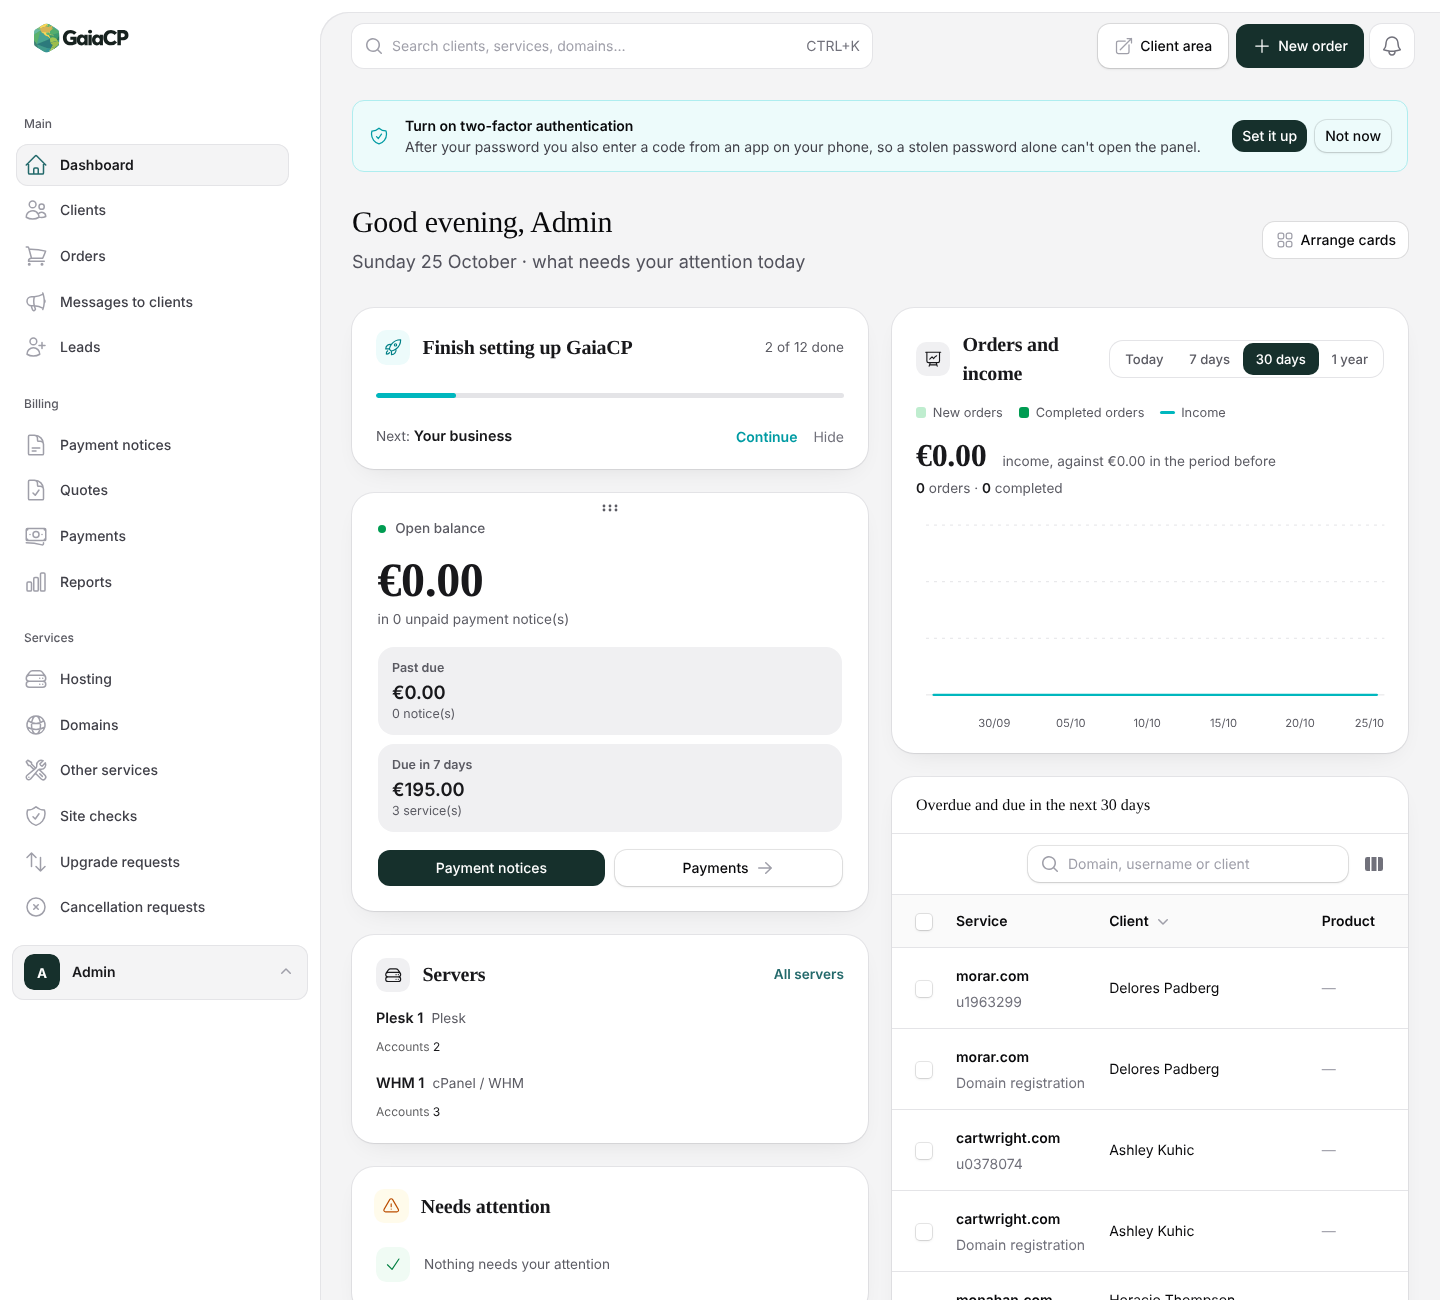
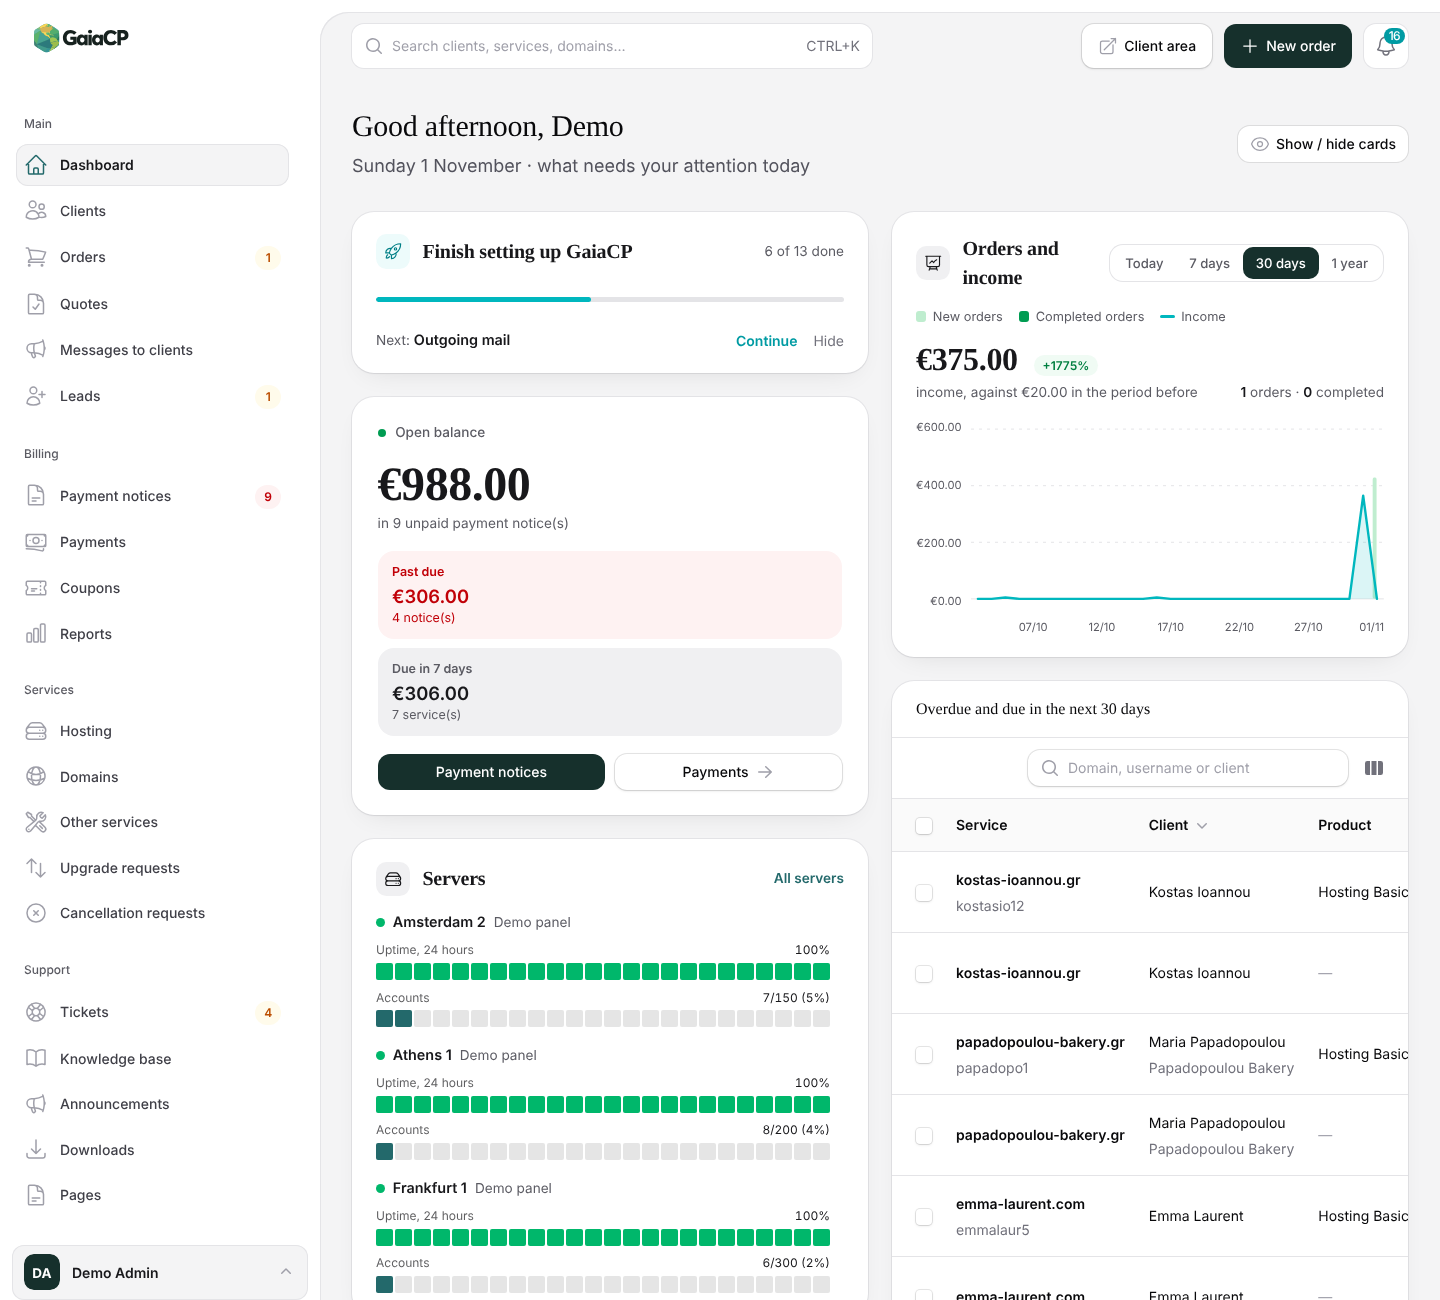
README: fresh light-mode screenshots and the features of 0.4.0 and after
Six new screenshots from the demo data (dashboard, a client's page, client
area home, public home with product colours, ordering, a page of your own and
its editor); the dark dashboard copy is gone. The feature list now names
invoices and credit notes, coupons and sale prices, product colours and tags,
custom pages and menus, WHOIS lookup, downloads, product and group pages,
Google sign-in and the newer AI helpers.

Claude-Session: https://claude.ai/code/session_01SDRTvMX1BzMw7msGgfXRbY

diff --git a/README.md b/README.md
@@ -23,10 +23,9 @@
 > parts of it haven't been tried against real servers or registrars yet. Keep backups (Settings → System → Backups)
 > and read each release's notes before updating.
 
-<picture>
-  <source media="(prefers-color-scheme: dark)" srcset="docs/screenshots/admin-dashboard-dark.png">
-  <img src="docs/screenshots/admin-dashboard.png" alt="The admin dashboard">
-</picture>
+<p align="center">
+  <img src="docs/screenshots/admin-dashboard.png" alt="The admin dashboard: open balance, orders and income, servers with their uptime, and what is due">
+</p>
 
 ## What is GaiaCP?
 
@@ -54,7 +53,9 @@ every ten minutes, so click anything you like. Nothing leaves the server: no ema
 - Payment notices (proformas) made and emailed before each due date, with reminders and overdue notices
 - Automatic suspension of unpaid hosting, and unsuspension once it is paid
 - Card payments through Stripe Checkout, PayPal, bank transfer, client credit, tax and EU reverse charge, several currencies
-- Quotes, upgrades and downgrades, price changes with notice, add-ons and product options
+- Optional numbered invoices and credit notes as PDF, issued when a notice is paid, with a CSV export for your accountant
+- Coupons, sale prices on products and domain endings, quotes, upgrades and downgrades, price changes with notice,
+  add-ons and product options
 - Reports: income, forecast, profit per server and per domain ending
 
 **Hosting, domains and SSL**
@@ -65,17 +66,23 @@ every ten minutes, so click anything you like. Nothing leaves the server: no ema
   or Better Stack
 
 **Your clients**
-- A client area where clients order, pay, change nameservers, log in to their hosting panel, open tickets and read
-  the knowledge base
-- An optional public site: home page, domain search, domain prices, package comparison, cart, announcements, server
-  status, a contact form and pages of your own written with an editor
+- A client area where clients order, pay, change nameservers, log in to their hosting panel, open tickets, read the
+  knowledge base and download your files, with a short welcome tour on their first visit
+- An optional public site: home page, domain search, WHOIS lookup, domain prices, a page for each product group and
+  product, package comparison, cart, announcements, server status and a contact form, ready for search engines
+  (sitemap, each language at its own address)
+- Pages of your own (About us, your terms, a guide) written with an editor, with pictures and a featured image, and
+  both side menus arranged as you like: drag pages into order, rename them, add products, links and headings
+- Products with their own colour and tags such as New or NVMe SSD, a Popular badge and a sale price
 - Support tickets (also from email), leads, messages to clients, editable email templates in each language
 
 **For you**
 - A dashboard you arrange yourself, a notifications bell, push notifications on your phone, a setup guide
-- Admin users with access levels, two-factor sign-in, passkeys, sign-in links by email, login protection, backups, system health, logs
-- An AI assistant (Claude, ChatGPT, DeepSeek or Kimi with your own key, or a local model through Ollama) that improves and translates the texts you write, drafts and
-  summarises ticket replies and answers questions about your data
+- Admin users with access levels, two-factor sign-in, passkeys, sign-in links by email, Google sign-in, login
+  protection, backups, system health, logs
+- An AI assistant (Claude, ChatGPT, DeepSeek or Kimi with your own key, or a local model through Ollama) that
+  improves and translates the texts you write, drafts and summarises ticket replies, writes personal payment reminders,
+  fills in missing translations and answers questions about your data in plain words
 - Webhooks, Slack, Discord and Telegram, a REST API, and an import from WHMCS
 - English and Greek built in, plus machine translations into German, Spanish, French, Italian, Dutch, Polish,
   Brazilian Portuguese and Turkish; other languages are uploaded from the panel
@@ -85,16 +92,36 @@ from the signed plugin catalogue at [plugins.gaiacp.digital](https://plugins.gai
 
 The full list, and what is planned, is in [docs/features.md](docs/features.md).
 
+## Screenshots
+
 <table>
   <tr>
-    <td><img src="docs/screenshots/public-home.png" alt="The public home page"></td>
-    <td><img src="docs/screenshots/compare-packages.png" alt="Ordering a hosting package"></td>
+    <td width="50%"><img src="docs/screenshots/admin-client.png" alt="A client's page in the admin panel"></td>
+    <td width="50%"><img src="docs/screenshots/client-home.png" alt="The client area's home page"></td>
   </tr>
   <tr>
-    <td align="center">The public home page</td>
+    <td align="center">A client's page: balance, payment record and every service in tabs</td>
+    <td align="center">The client area: what to pay and what renews next</td>
+  </tr>
+  <tr>
+    <td width="50%"><img src="docs/screenshots/public-home.png" alt="The public home page"></td>
+    <td width="50%"><img src="docs/screenshots/order.png" alt="Ordering a hosting package"></td>
+  </tr>
+  <tr>
+    <td align="center">The public home page, with product colours and tags</td>
     <td align="center">Ordering a package</td>
   </tr>
+  <tr>
+    <td width="50%"><img src="docs/screenshots/page-editor.png" alt="Writing a page with the editor in the admin panel"></td>
+    <td width="50%"><img src="docs/screenshots/custom-page.png" alt="The same page on the site, with its featured image"></td>
+  </tr>
+  <tr>
+    <td align="center">Writing a page of your own with the editor</td>
+    <td align="center">The same page on your site</td>
+  </tr>
 </table>
+
+Taken with the [demo](https://demo.gaiacp.digital)'s made-up data, in light mode; dark mode is one click away in the user menu.
 
 ## What it doesn't do
 
